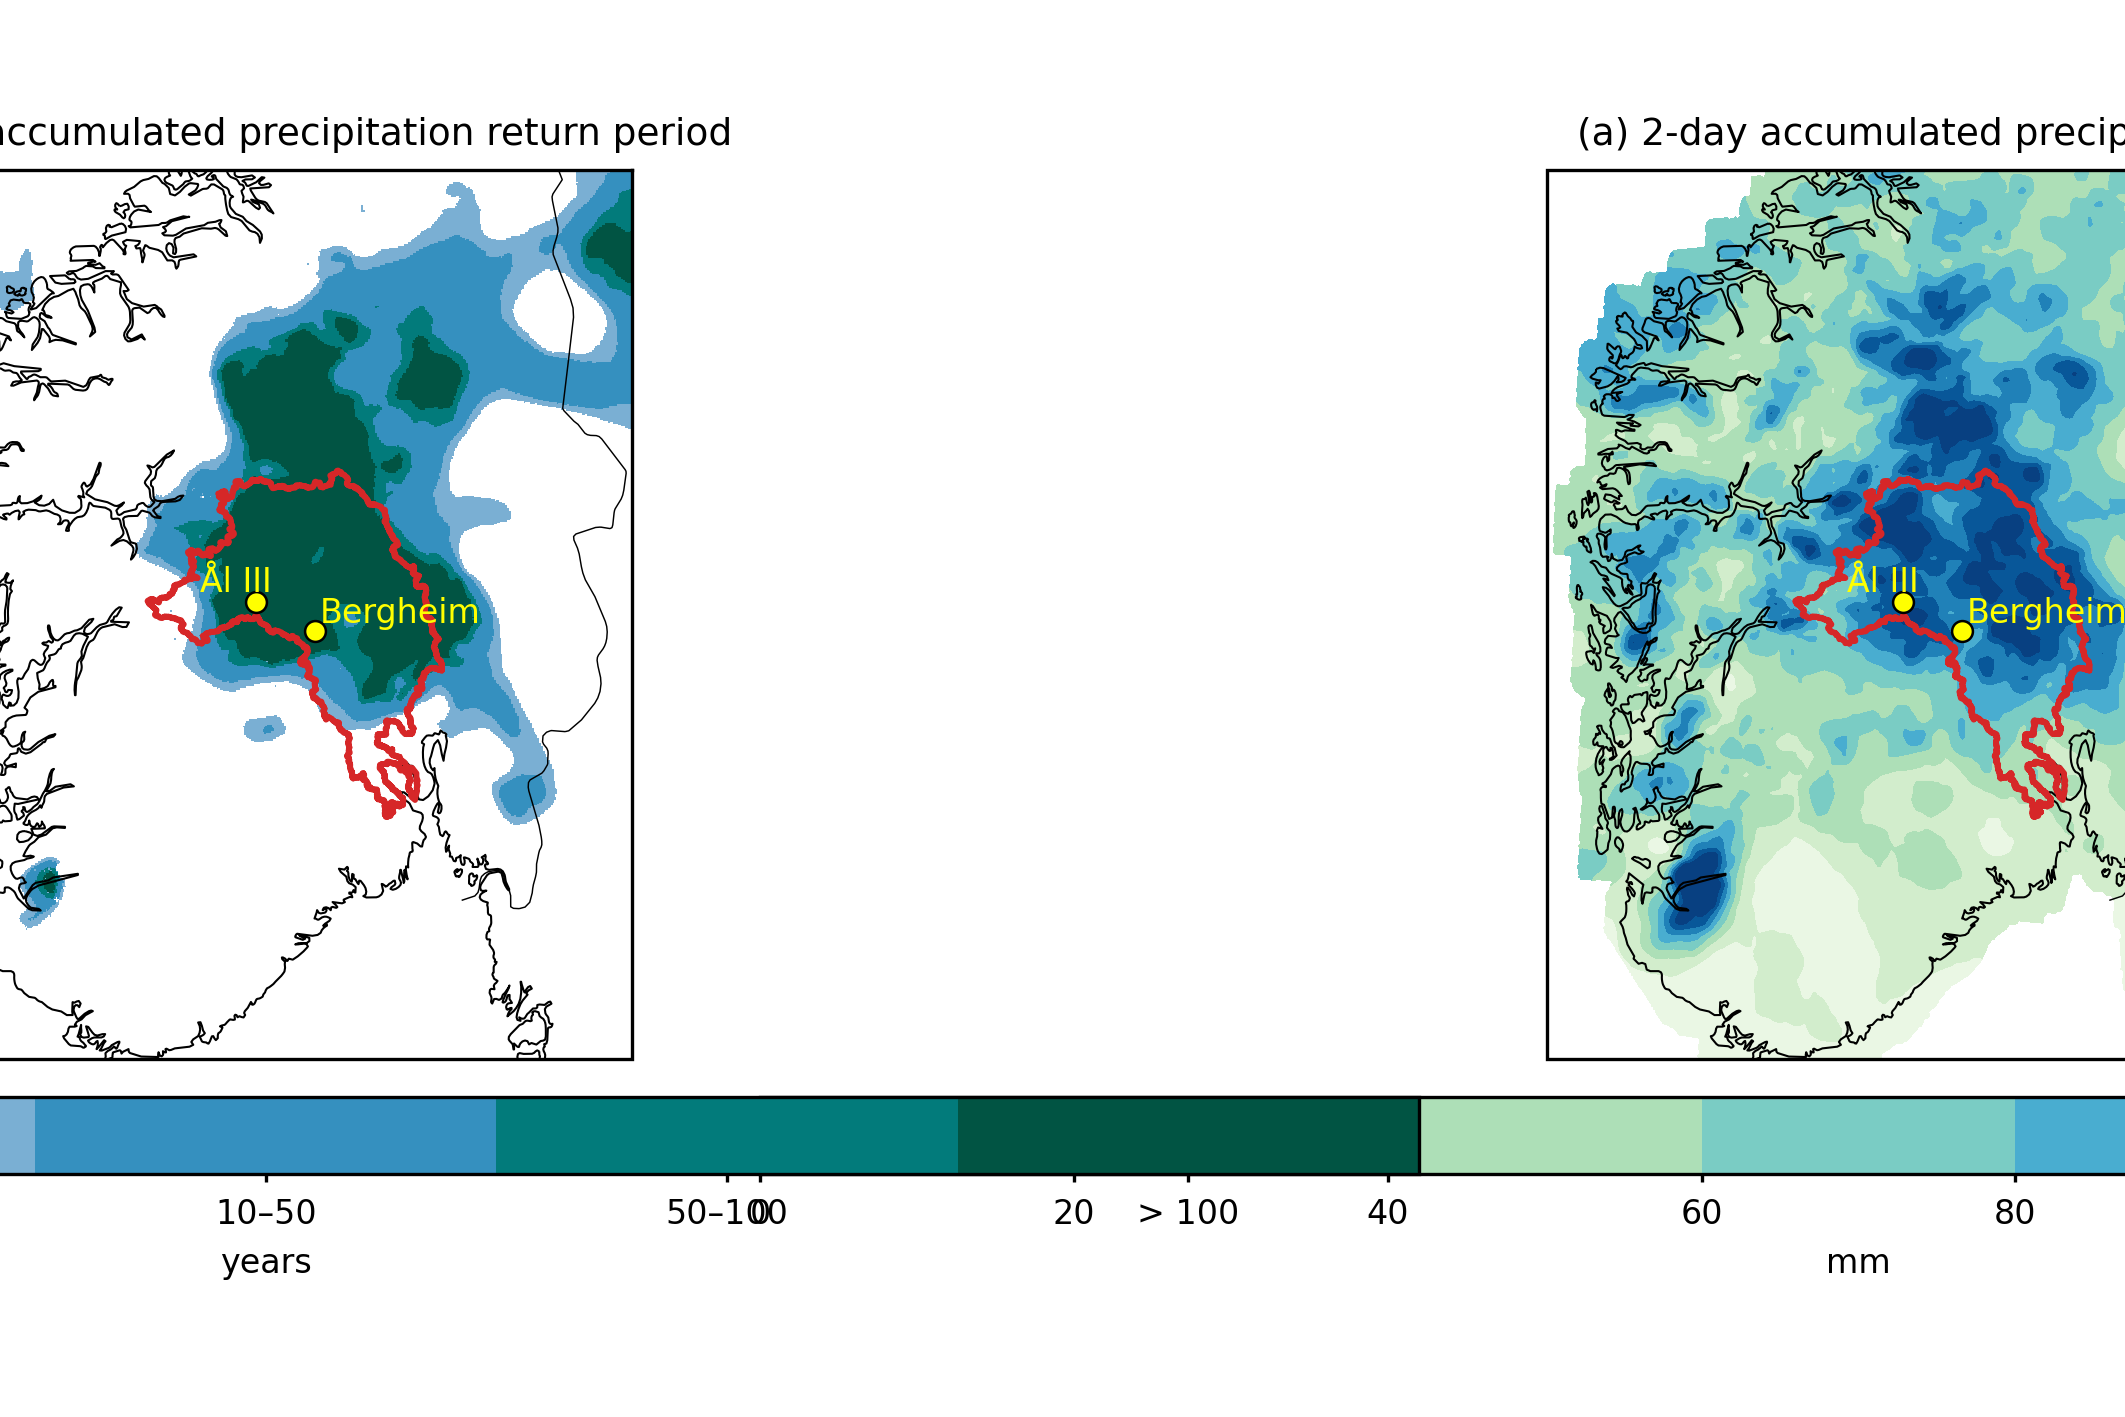
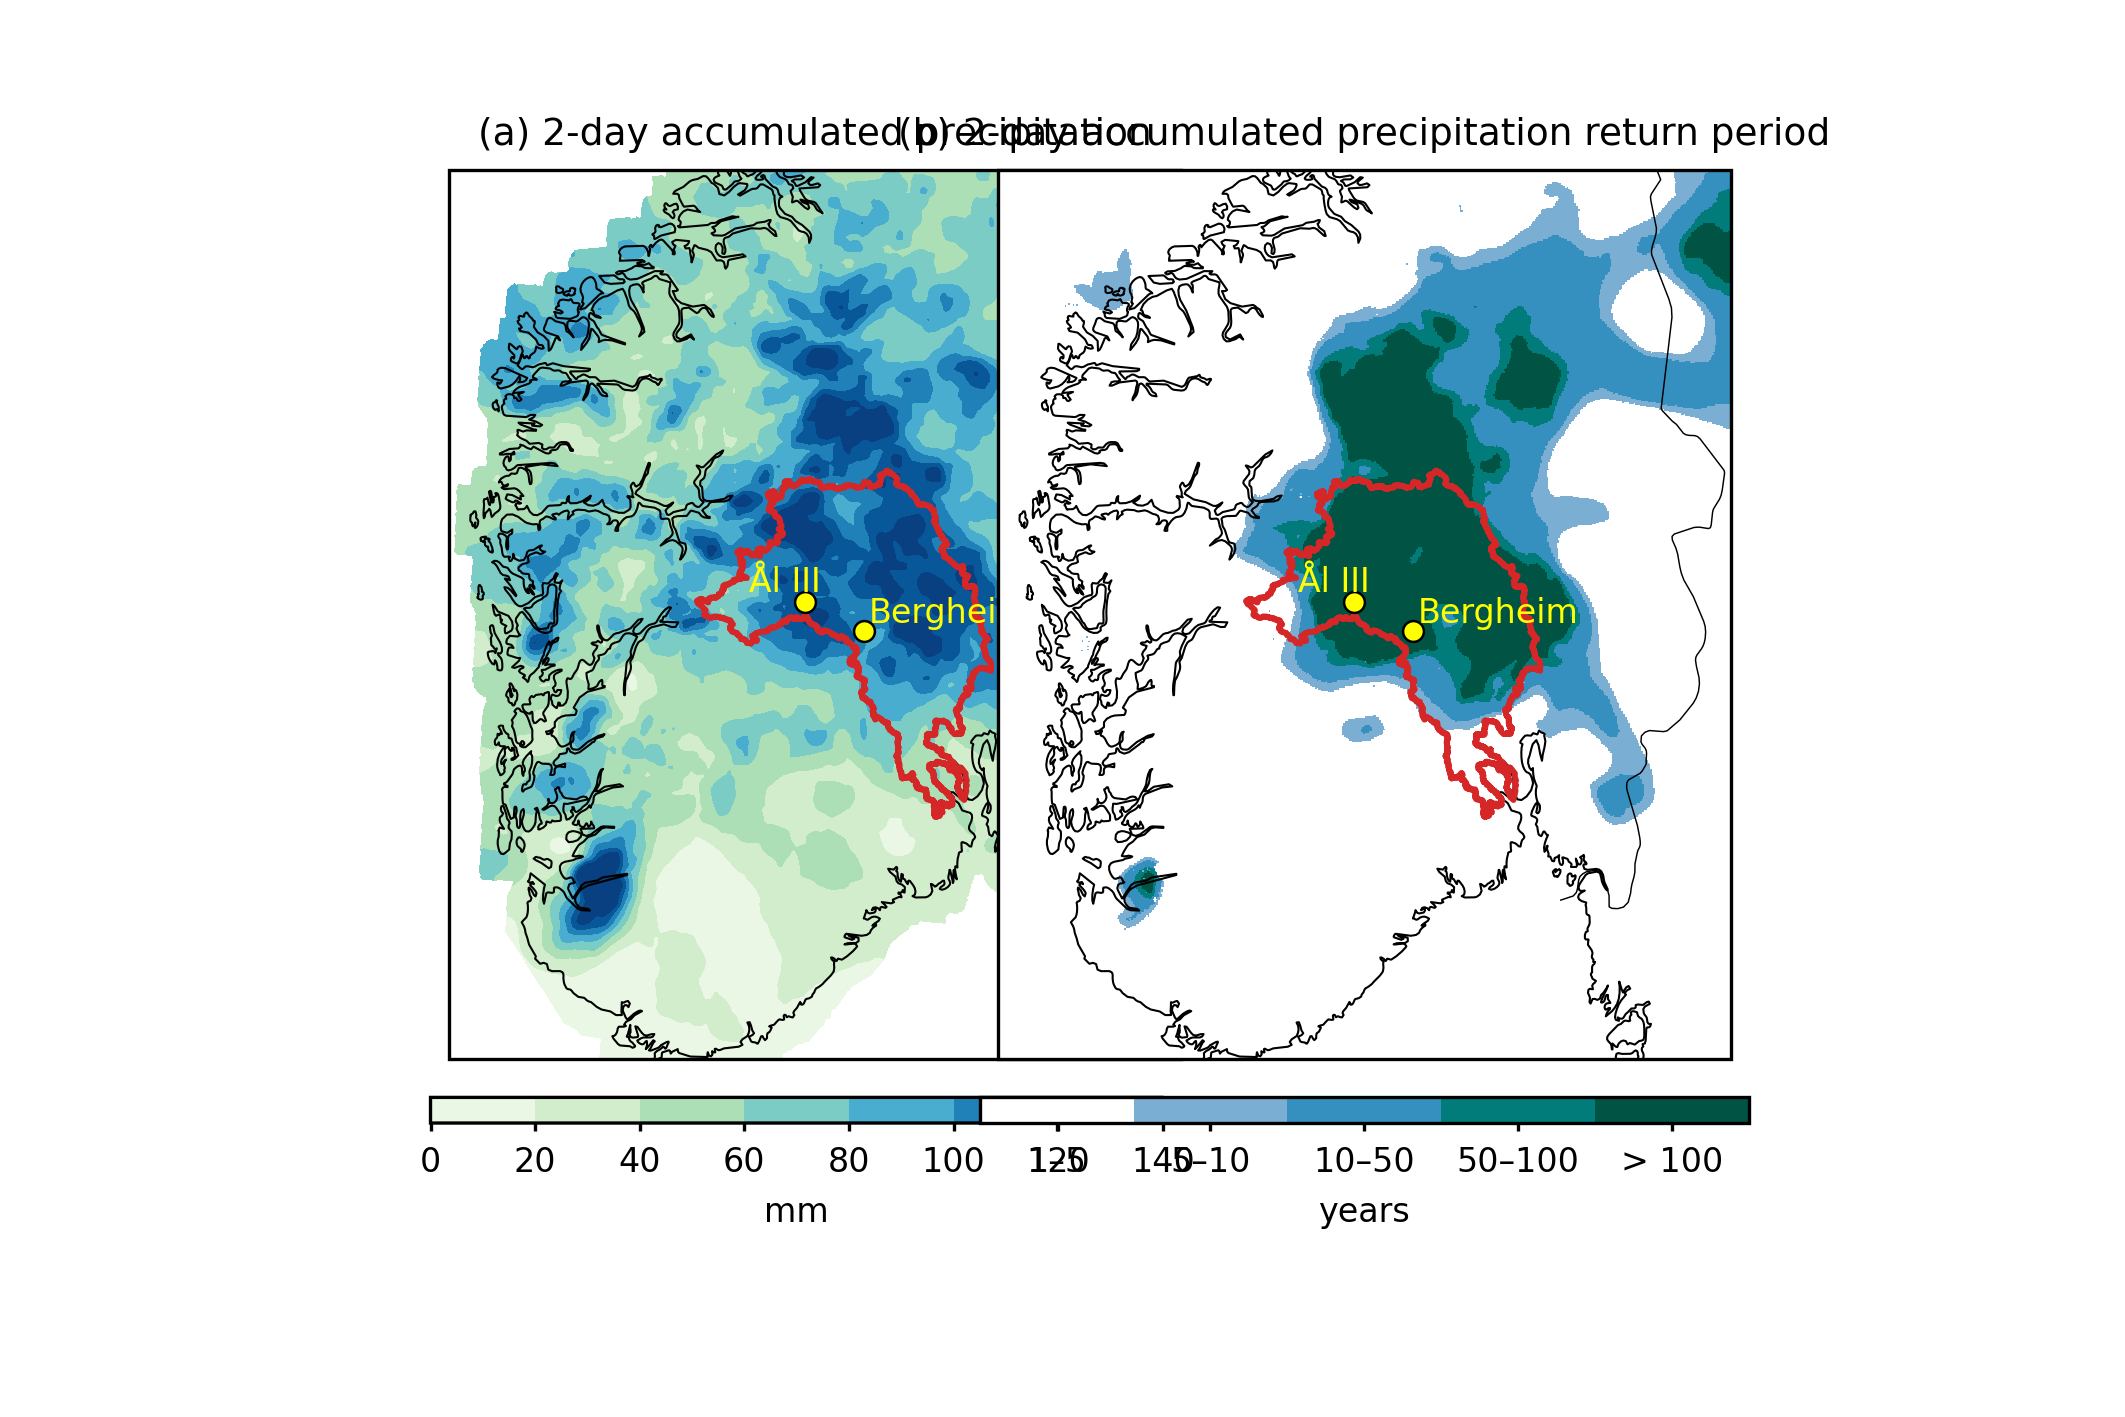
update

diff --git a/code/plot/paper_figs/temp.py b/code/plot/paper_figs/temp.py
@@ -171,7 +171,7 @@ def make_two_map_axes(central_lon=10.0, central_lat=62.0, extent=None):
 
     # Tight spacing between panels
     fig.subplots_adjust(
-        wspace=-1.5,  # << very small horizontal spacing
+        wspace=-0.5,  # << very small horizontal spacing
     )
     
     for ax in axes:
